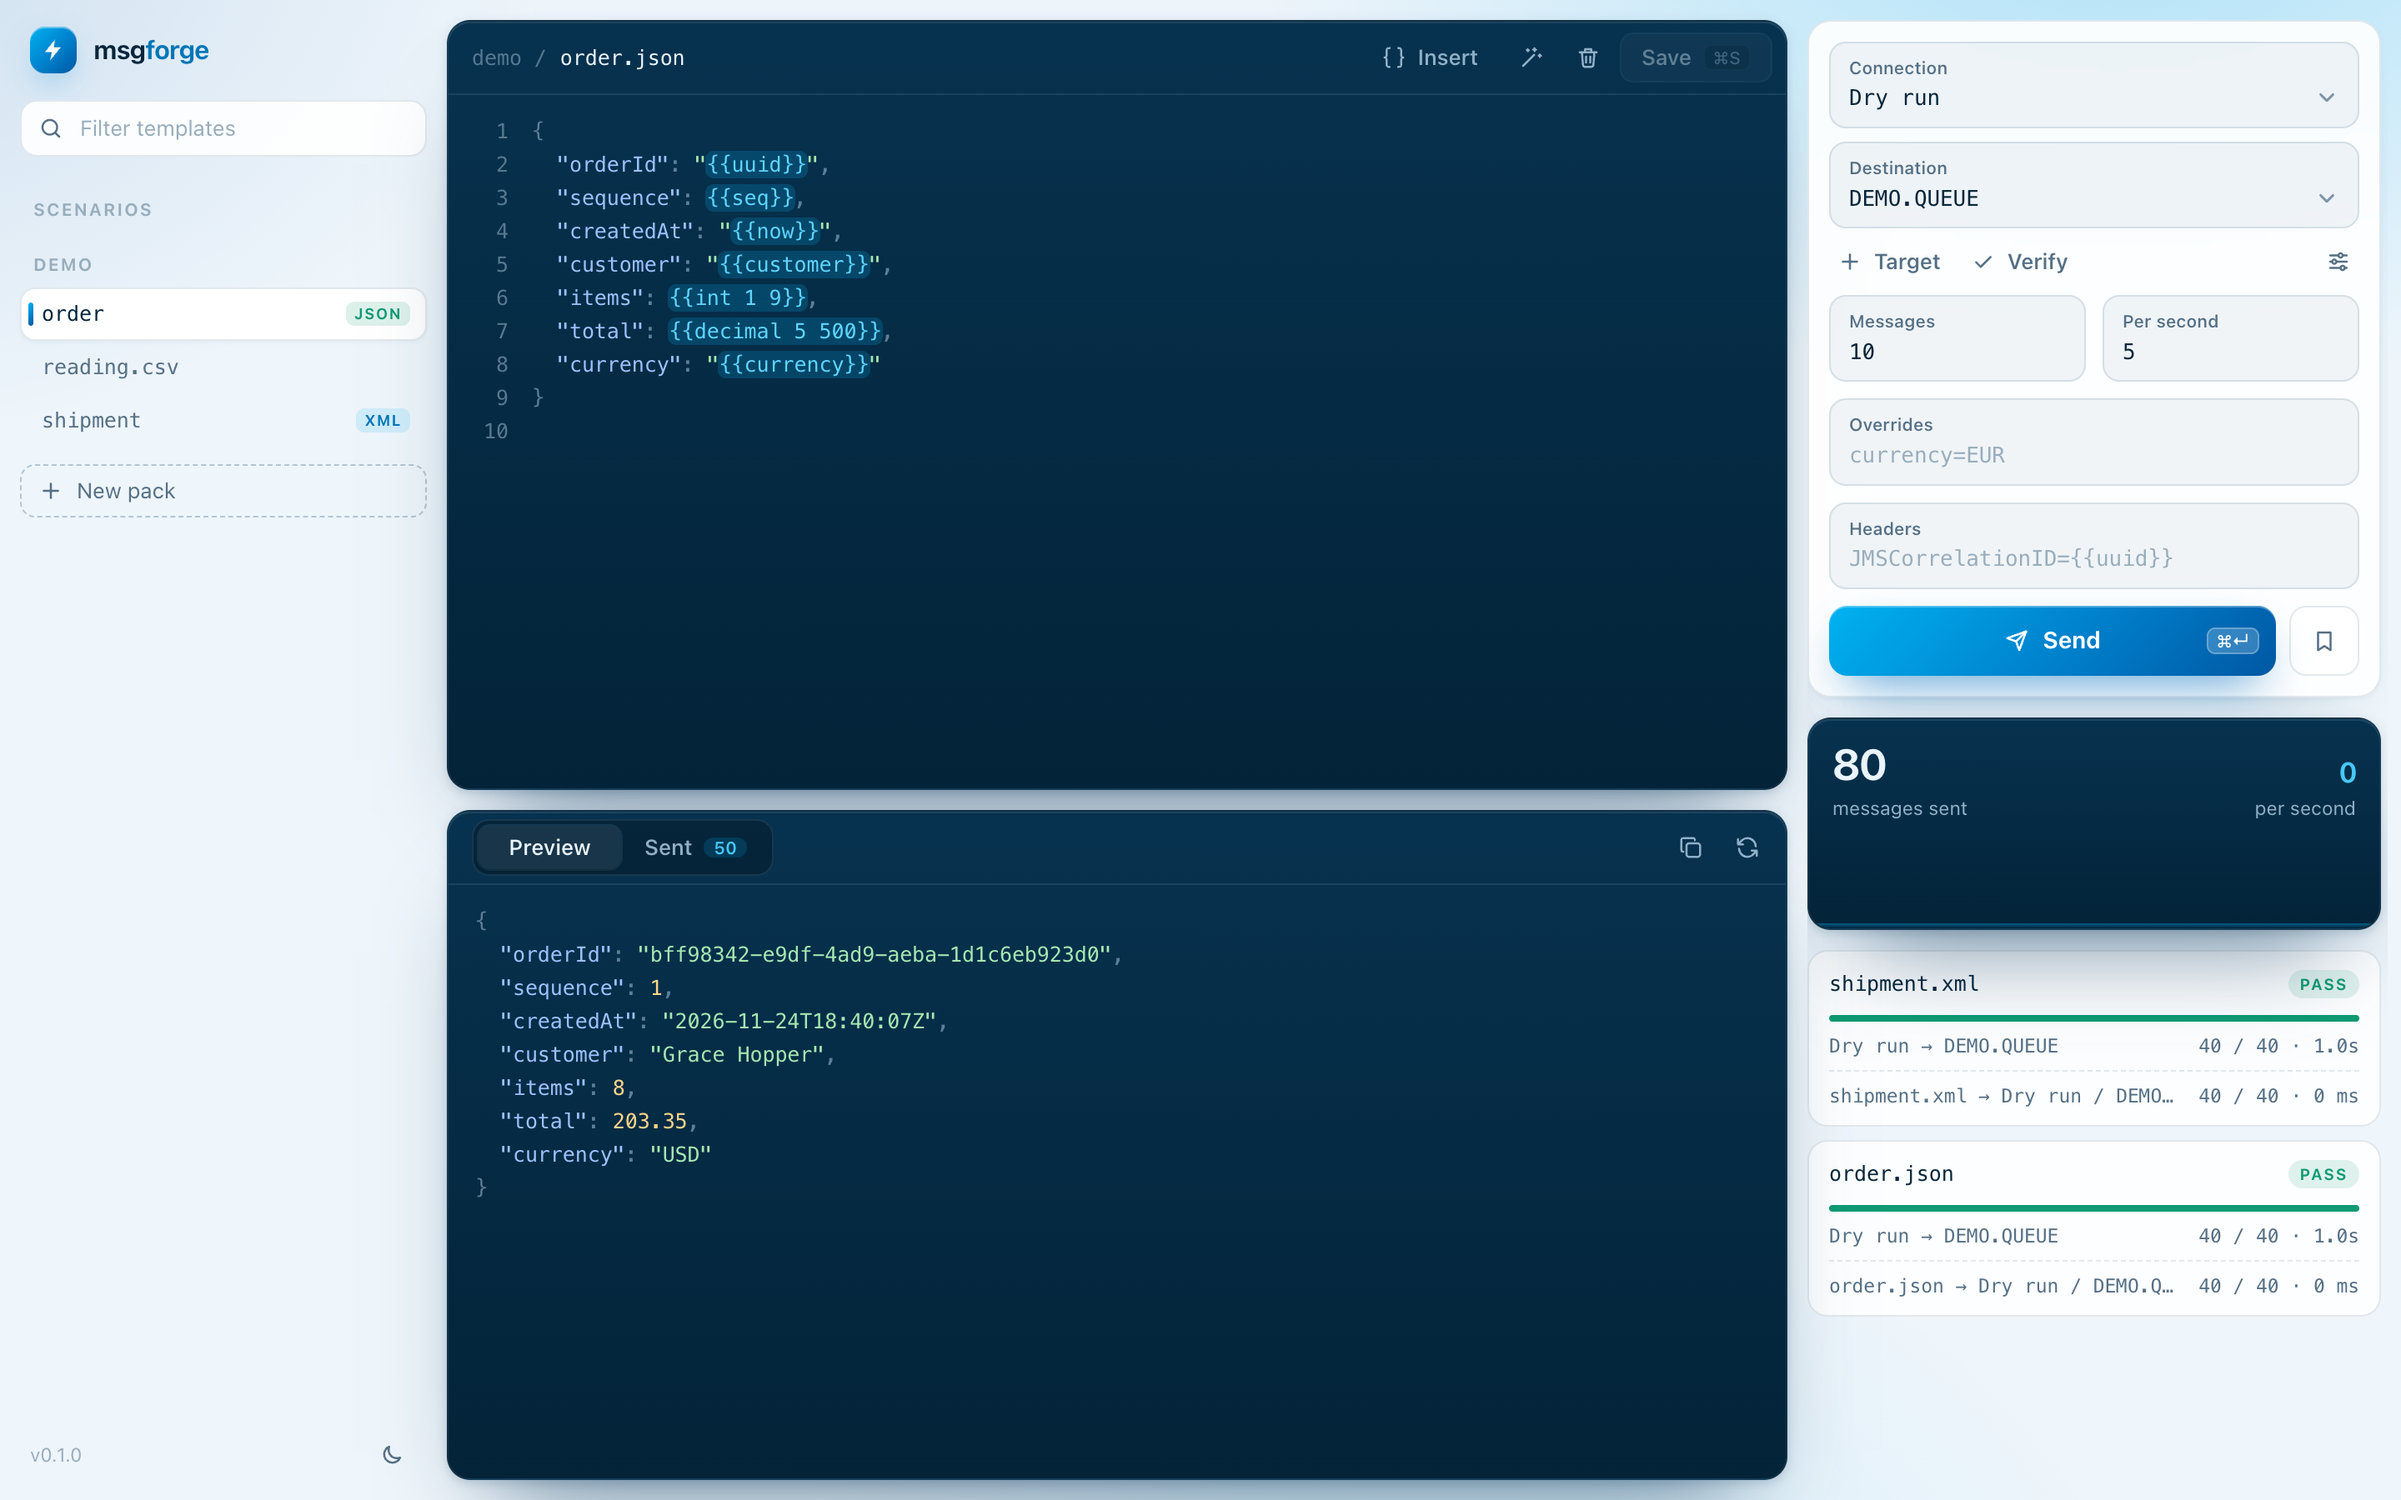
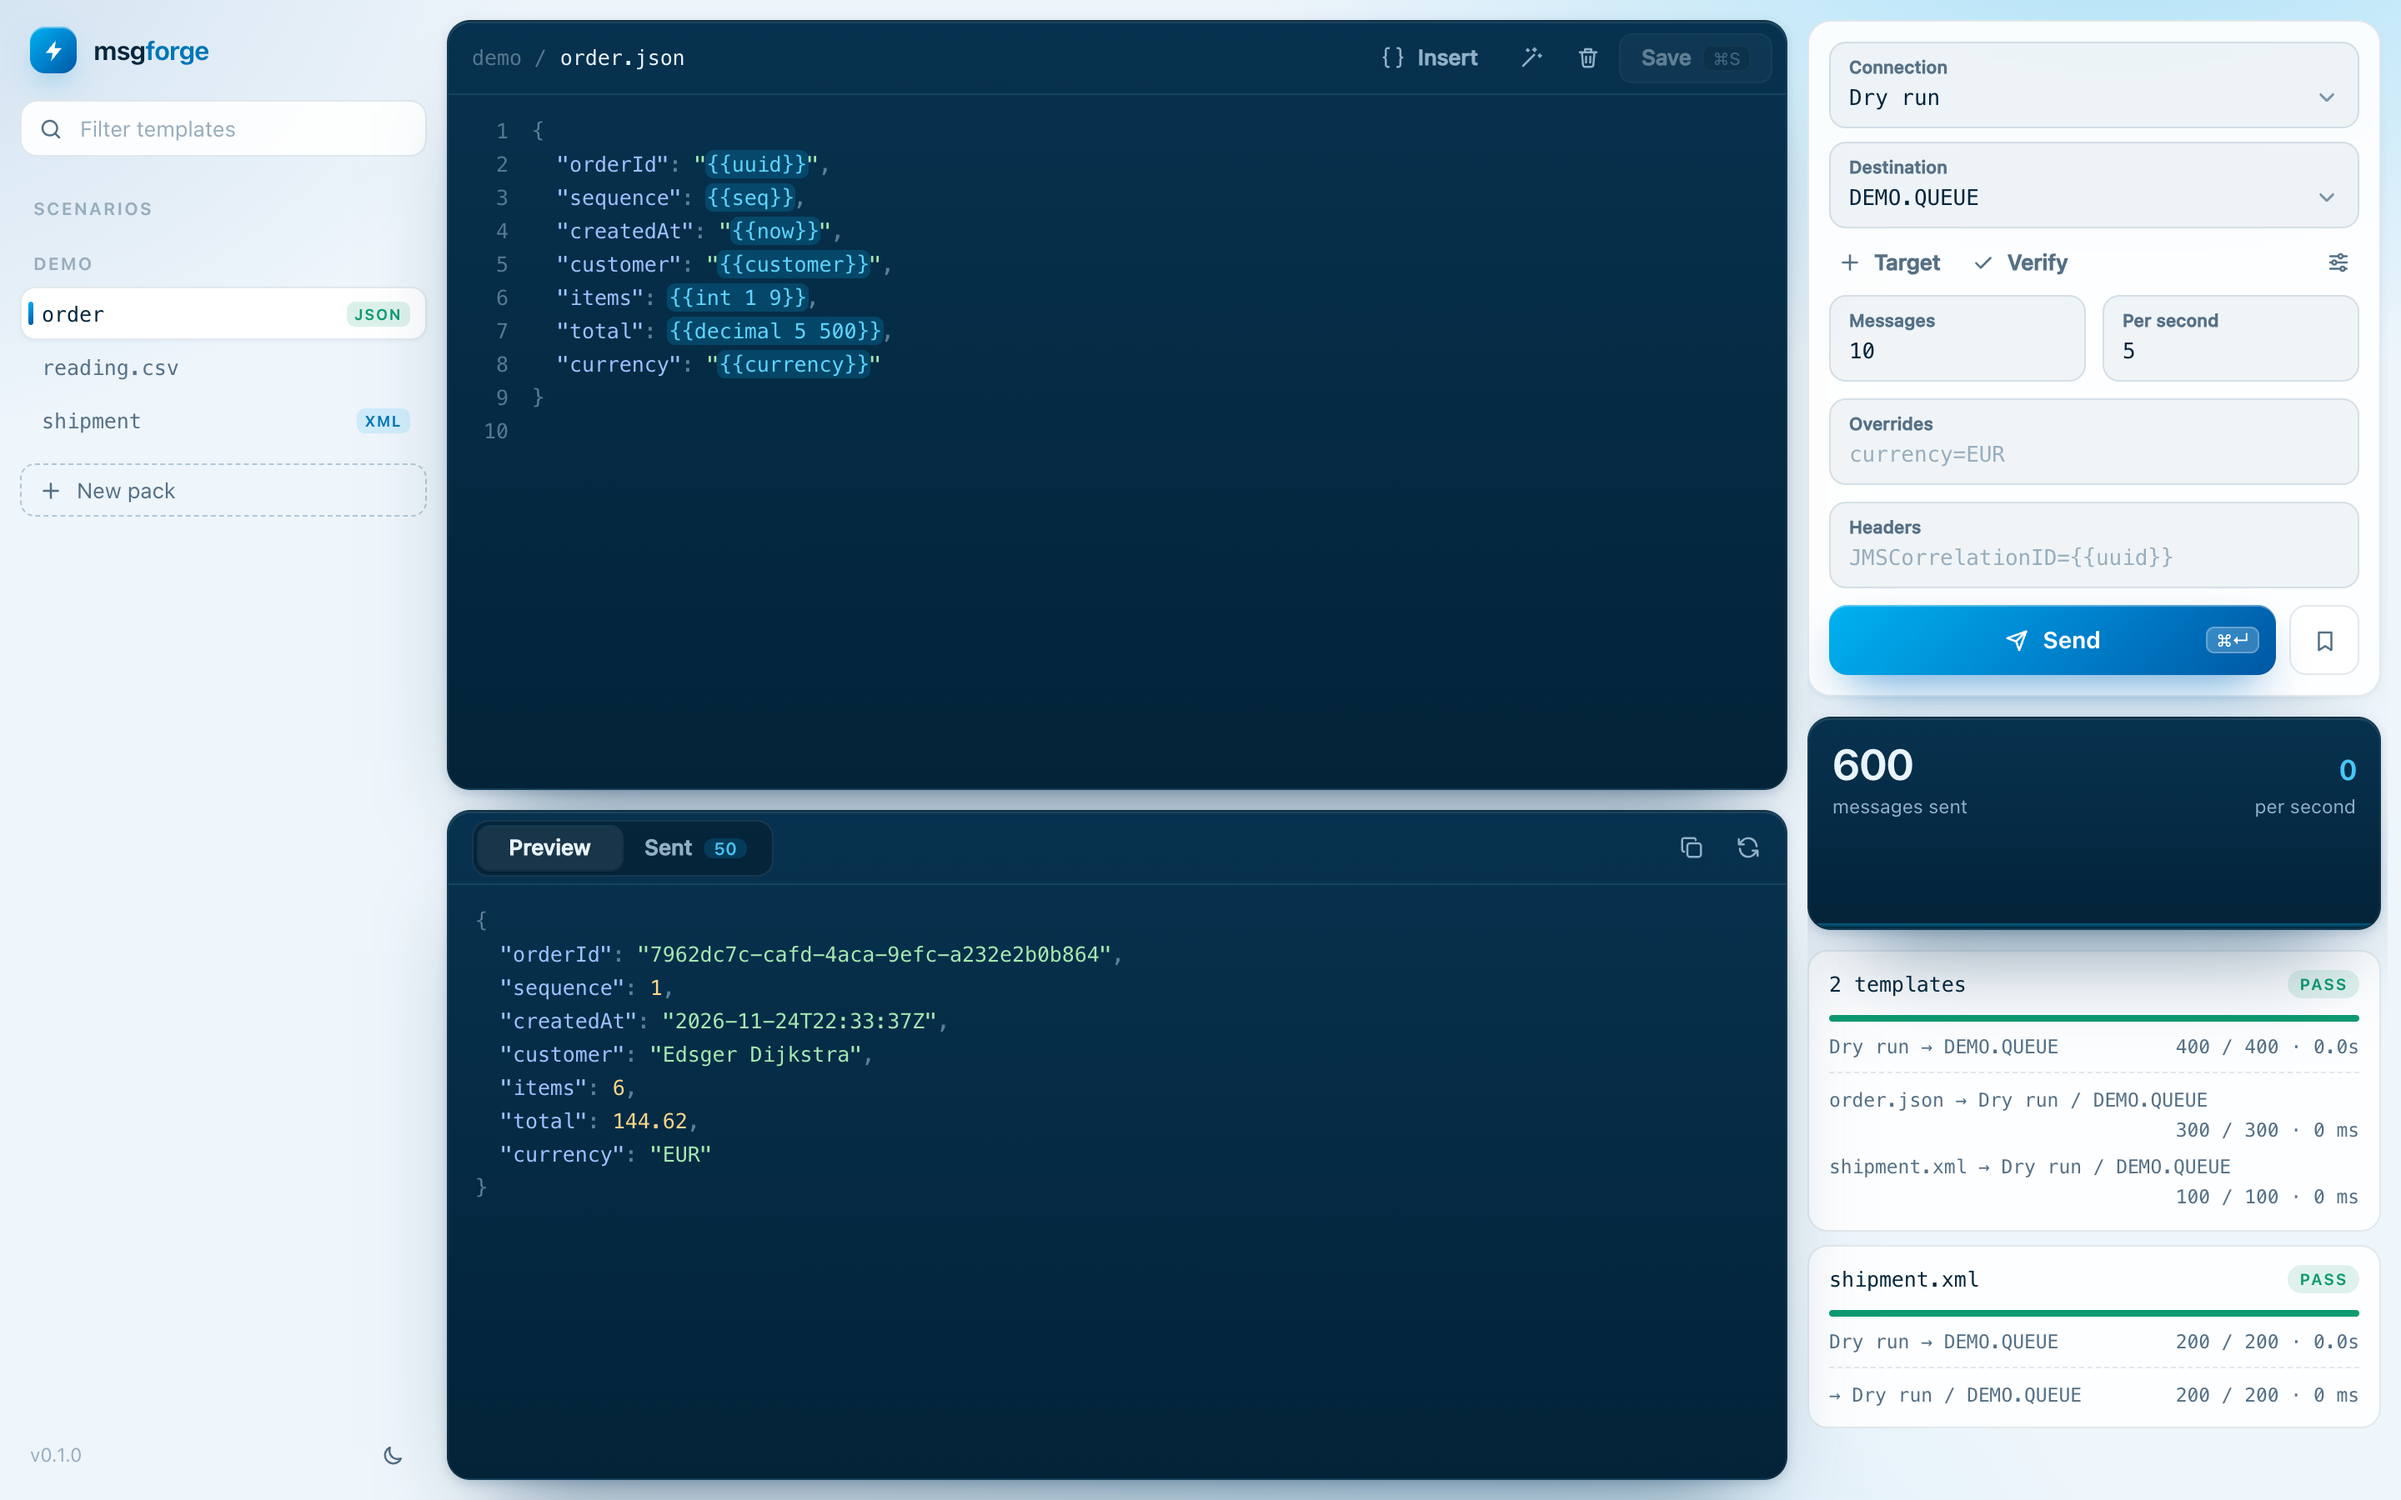
fix: a run's checks show where the messages were expected, in full
Found while going through every screen of the console at 1440x900, light and
dark, with the dialogs, a running run, a failed one and narrow windows.

- A check line cut off its left half to keep the counts on the same line:
  "order.json → Dry run /…  0 / 30 · 30 misrouted". The queue the messages
  were expected on is what a failed check is read for, and it was the part
  that got cut. The line now keeps its text whole and the counts move to a
  line of their own when both do not fit. A run of one template no longer
  repeats the template's name on its check line.
- The Insert menu stopped at 340px and cut a row in half with most of the
  window free below it. It now takes the height it needs, up to 560px.
- docs/console.png retaken to match.

Checked from headless Chrome screenshots of the running console: the failed
two-template run shows "order.json → Dry run / ORDERS.OUT" whole with its
counts beneath, in both themes; the menu shows all fifteen entries.
./gradlew test dist: 60 tests, 0 skipped, 0 failed.

Nothing else was changed: the other screens (dialogs, sent messages, verify
form, 1024px and phone widths, error and empty states) looked right.

diff --git a/src/main/resources/static/app.css b/src/main/resources/static/app.css
@@ -201,10 +201,10 @@ form.send-card .seg { display: grid; }
 .run .sub { display: flex; justify-content: space-between; gap: 10px; font: 11.5px var(--mono); color: var(--muted); }
 .run .sub span:first-child { overflow: hidden; text-overflow: ellipsis; white-space: nowrap; }
 .run .sub span:last-child { white-space: nowrap; font-variant-numeric: tabular-nums; }
-.checks { display: grid; grid-template-columns: minmax(0, 1fr); gap: 3px; margin-top: 8px; padding-top: 8px; border-top: 1px dashed var(--line); }
-.check { display: flex; justify-content: space-between; gap: 10px; min-width: 0; font: 11.5px var(--mono); color: var(--muted); }
-.check span:first-child { min-width: 0; overflow: hidden; text-overflow: ellipsis; white-space: nowrap; }
-.check .tally { white-space: nowrap; font-variant-numeric: tabular-nums; }
+.checks { display: grid; grid-template-columns: minmax(0, 1fr); gap: 6px; margin-top: 8px; padding-top: 8px; border-top: 1px dashed var(--line); }
+.check { display: flex; flex-wrap: wrap; gap: 1px 10px; min-width: 0; font: 11.5px/1.45 var(--mono); color: var(--muted); }
+.check span:first-child { min-width: 0; overflow-wrap: anywhere; }
+.check .tally { margin-left: auto; white-space: nowrap; font-variant-numeric: tabular-nums; }
 .check b { font-weight: inherit; color: var(--bad); }
 .result, .run .error { padding: 8px 10px; border-radius: 8px; font: 11.5px/1.5 var(--mono); word-break: break-word; }
 .run .error { margin-top: 9px; }
@@ -253,7 +253,7 @@ h2 { margin: 0; font-size: 16px; font-weight: 650; letter-spacing: -.02em; }
 .ask p { margin: -6px 0 0; color: var(--muted); }
 
 /* ---- popover & toast */
-.menu { position: fixed; z-index: 20; width: 264px; max-height: 340px; overflow: auto; padding: 6px; border-radius: 12px; background: var(--pop); border: 1px solid var(--line-2); box-shadow: 0 24px 60px -16px rgba(0, 30, 60, .55); animation: rise .14s ease; }
+.menu { position: fixed; z-index: 20; width: 264px; max-height: min(560px, calc(100vh - 80px)); overflow: auto; padding: 6px; border-radius: 12px; background: var(--pop); border: 1px solid var(--line-2); box-shadow: 0 24px 60px -16px rgba(0, 30, 60, .55); animation: rise .14s ease; }
 .menu h6 { margin: 0; padding: 8px 8px 4px; font: 650 10px var(--sans); letter-spacing: .09em; text-transform: uppercase; color: var(--faint); }
 .menu button { display: flex; align-items: center; justify-content: space-between; gap: 10px; width: 100%; height: 30px; padding: 0 8px; border: 0; border-radius: 7px; background: none; text-align: left; font: 12px var(--mono); }
 .menu button:hover, .menu button:focus-visible { background: var(--accent-soft); color: var(--accent); outline: 0; }

diff --git a/src/main/resources/static/app.js b/src/main/resources/static/app.js
@@ -700,8 +700,8 @@ function renderRuns() {
     row.querySelector('.x').hidden = ended;
     const checks = row.querySelector('.checks'); checks.hidden = !r.checks.length;
     checks.replaceChildren(...r.checks.map(c => {
-      const line = el('div', 'check'), where = el('span', '', c.template + ' → ' + c.expected), tally = el('span', 'tally', c.arrived + ' / ' + c.sent);
-      where.title = where.textContent;
+      // where it was expected is what a failed check is read for, so it is never cut short: the tally moves to a line of its own instead
+      const line = el('div', 'check'), where = el('span', '', (r.templates.length > 1 ? c.template + ' ' : '') + '→ ' + c.expected), tally = el('span', 'tally', c.arrived + ' / ' + c.sent);
       // until the run ends a message that has not arrived is only late, so the counts are not shown as errors yet
       if (ended && c.misrouted) tally.append(el('b', '', ' · ' + c.misrouted + ' misrouted'));
       if (ended && c.missing) tally.append(el('b', '', ' · ' + c.missing + ' missing'));
